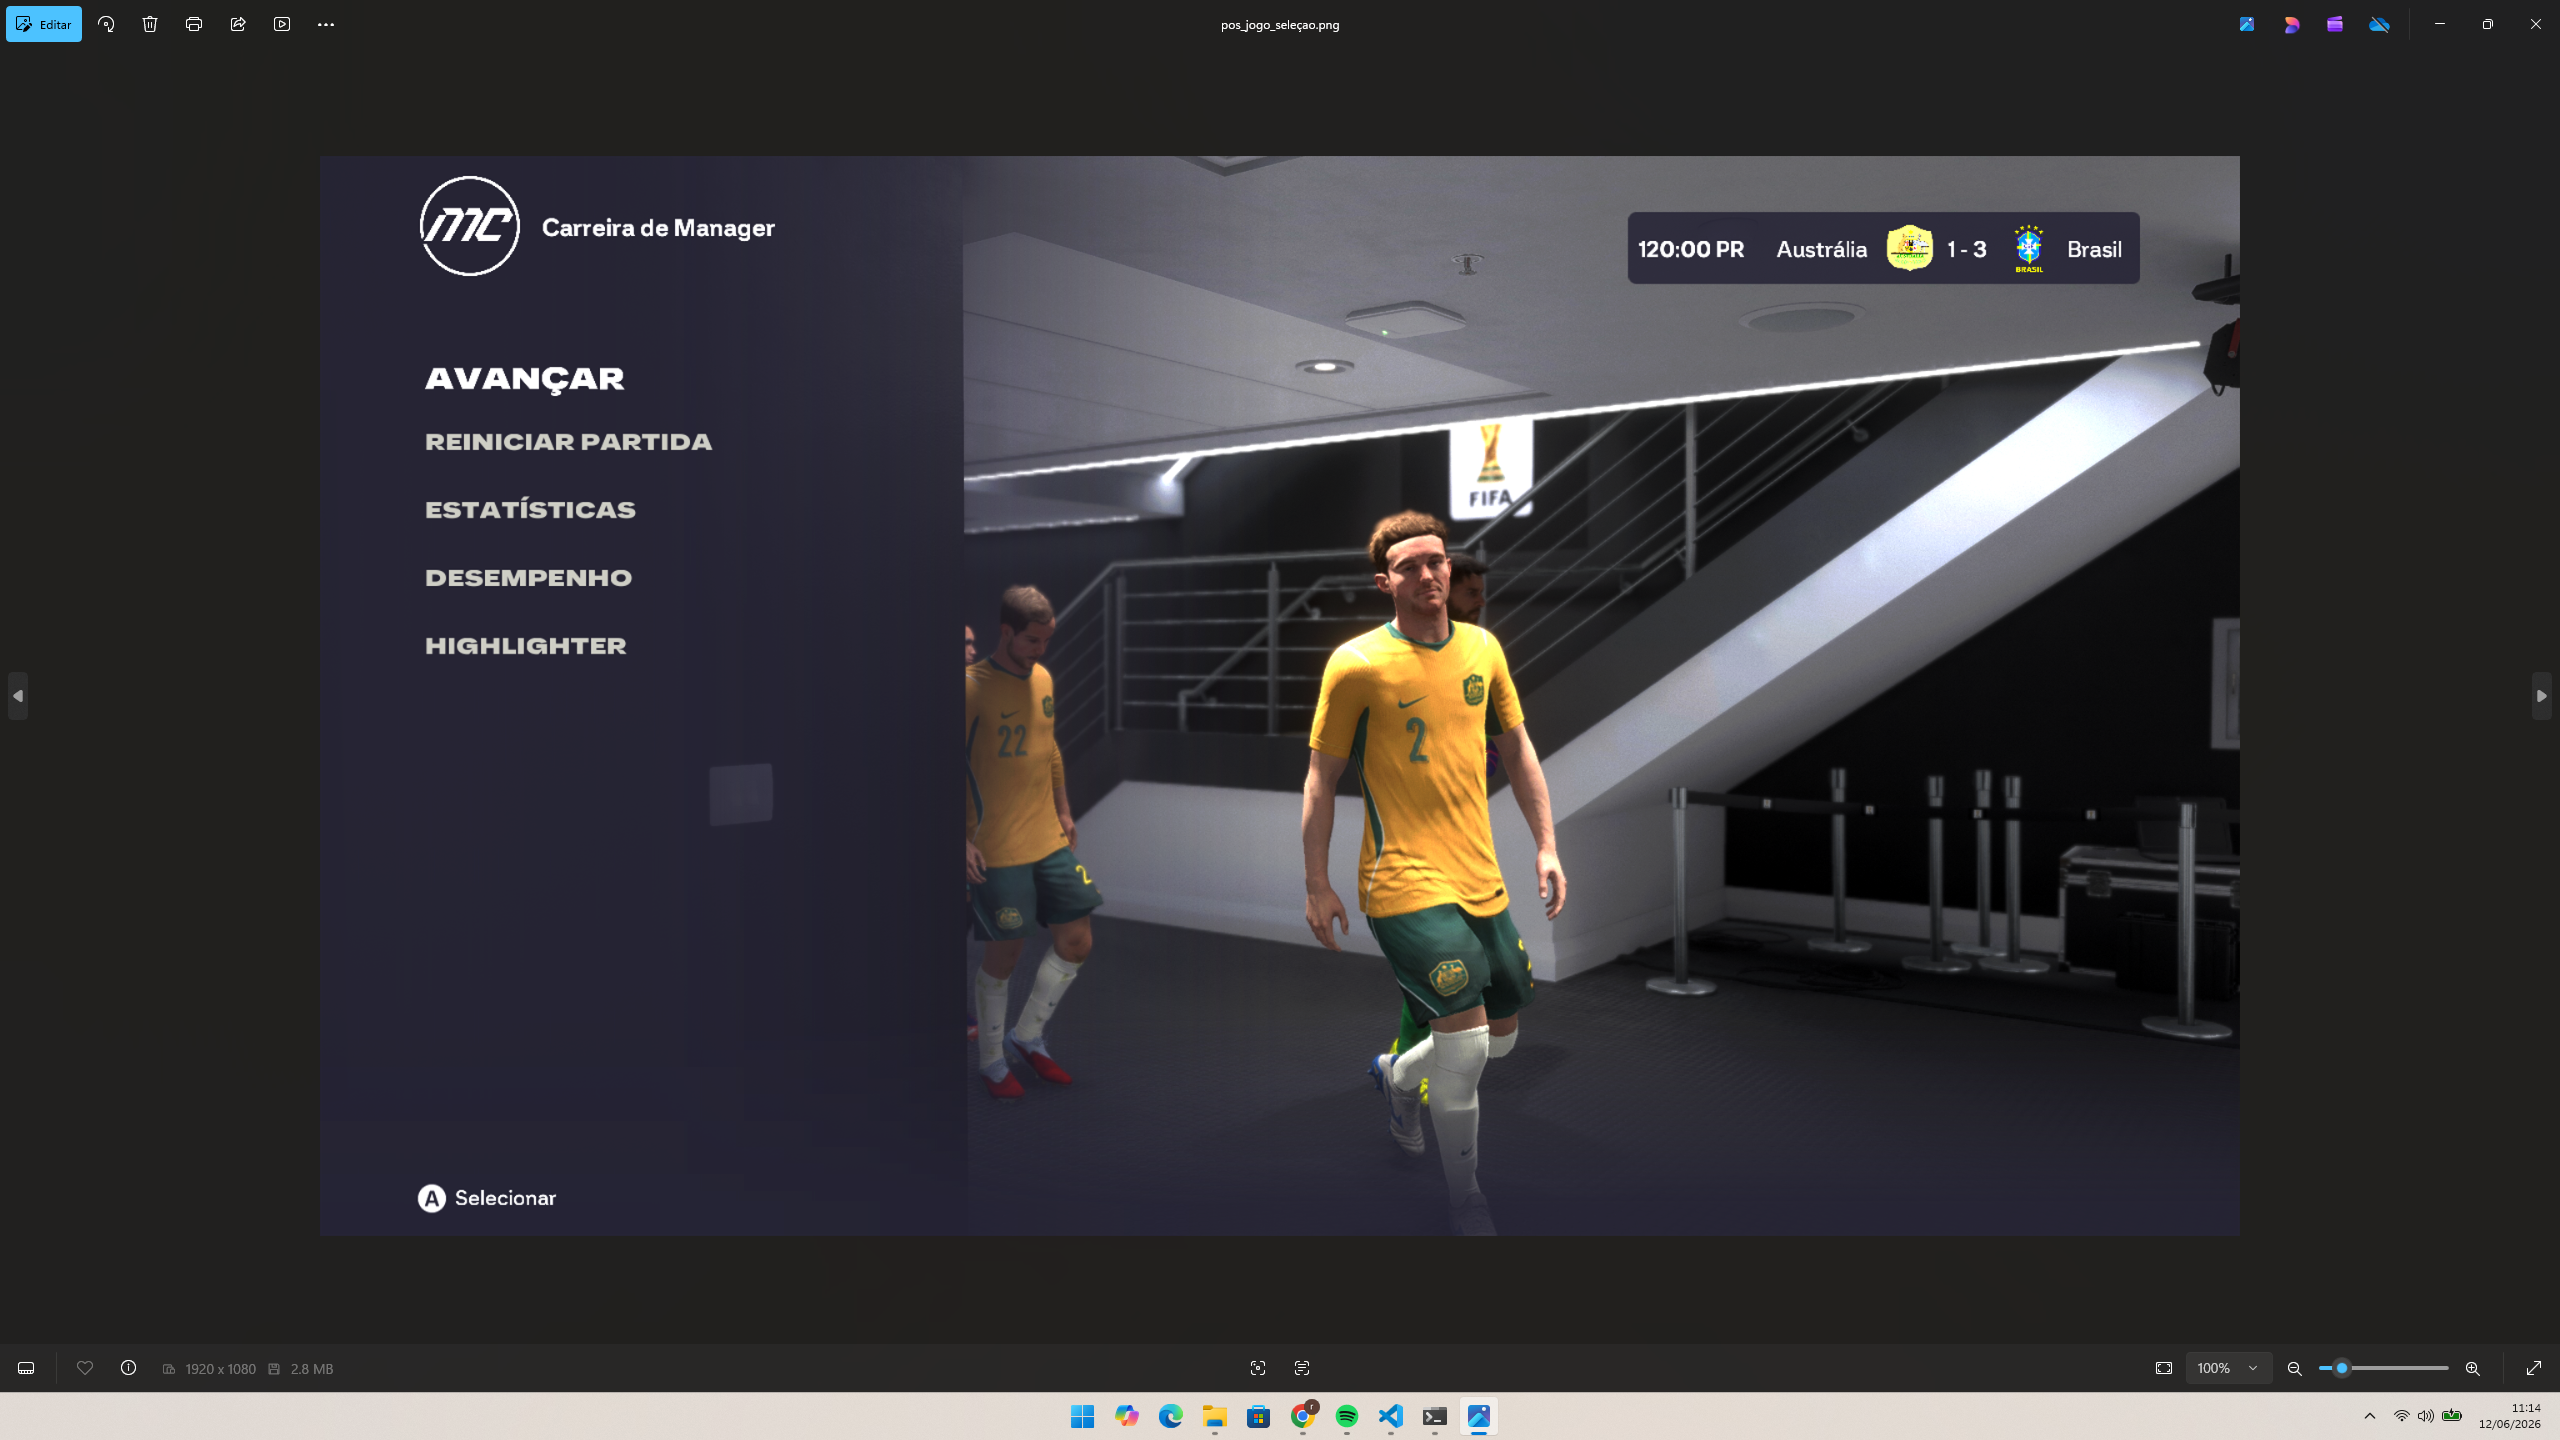
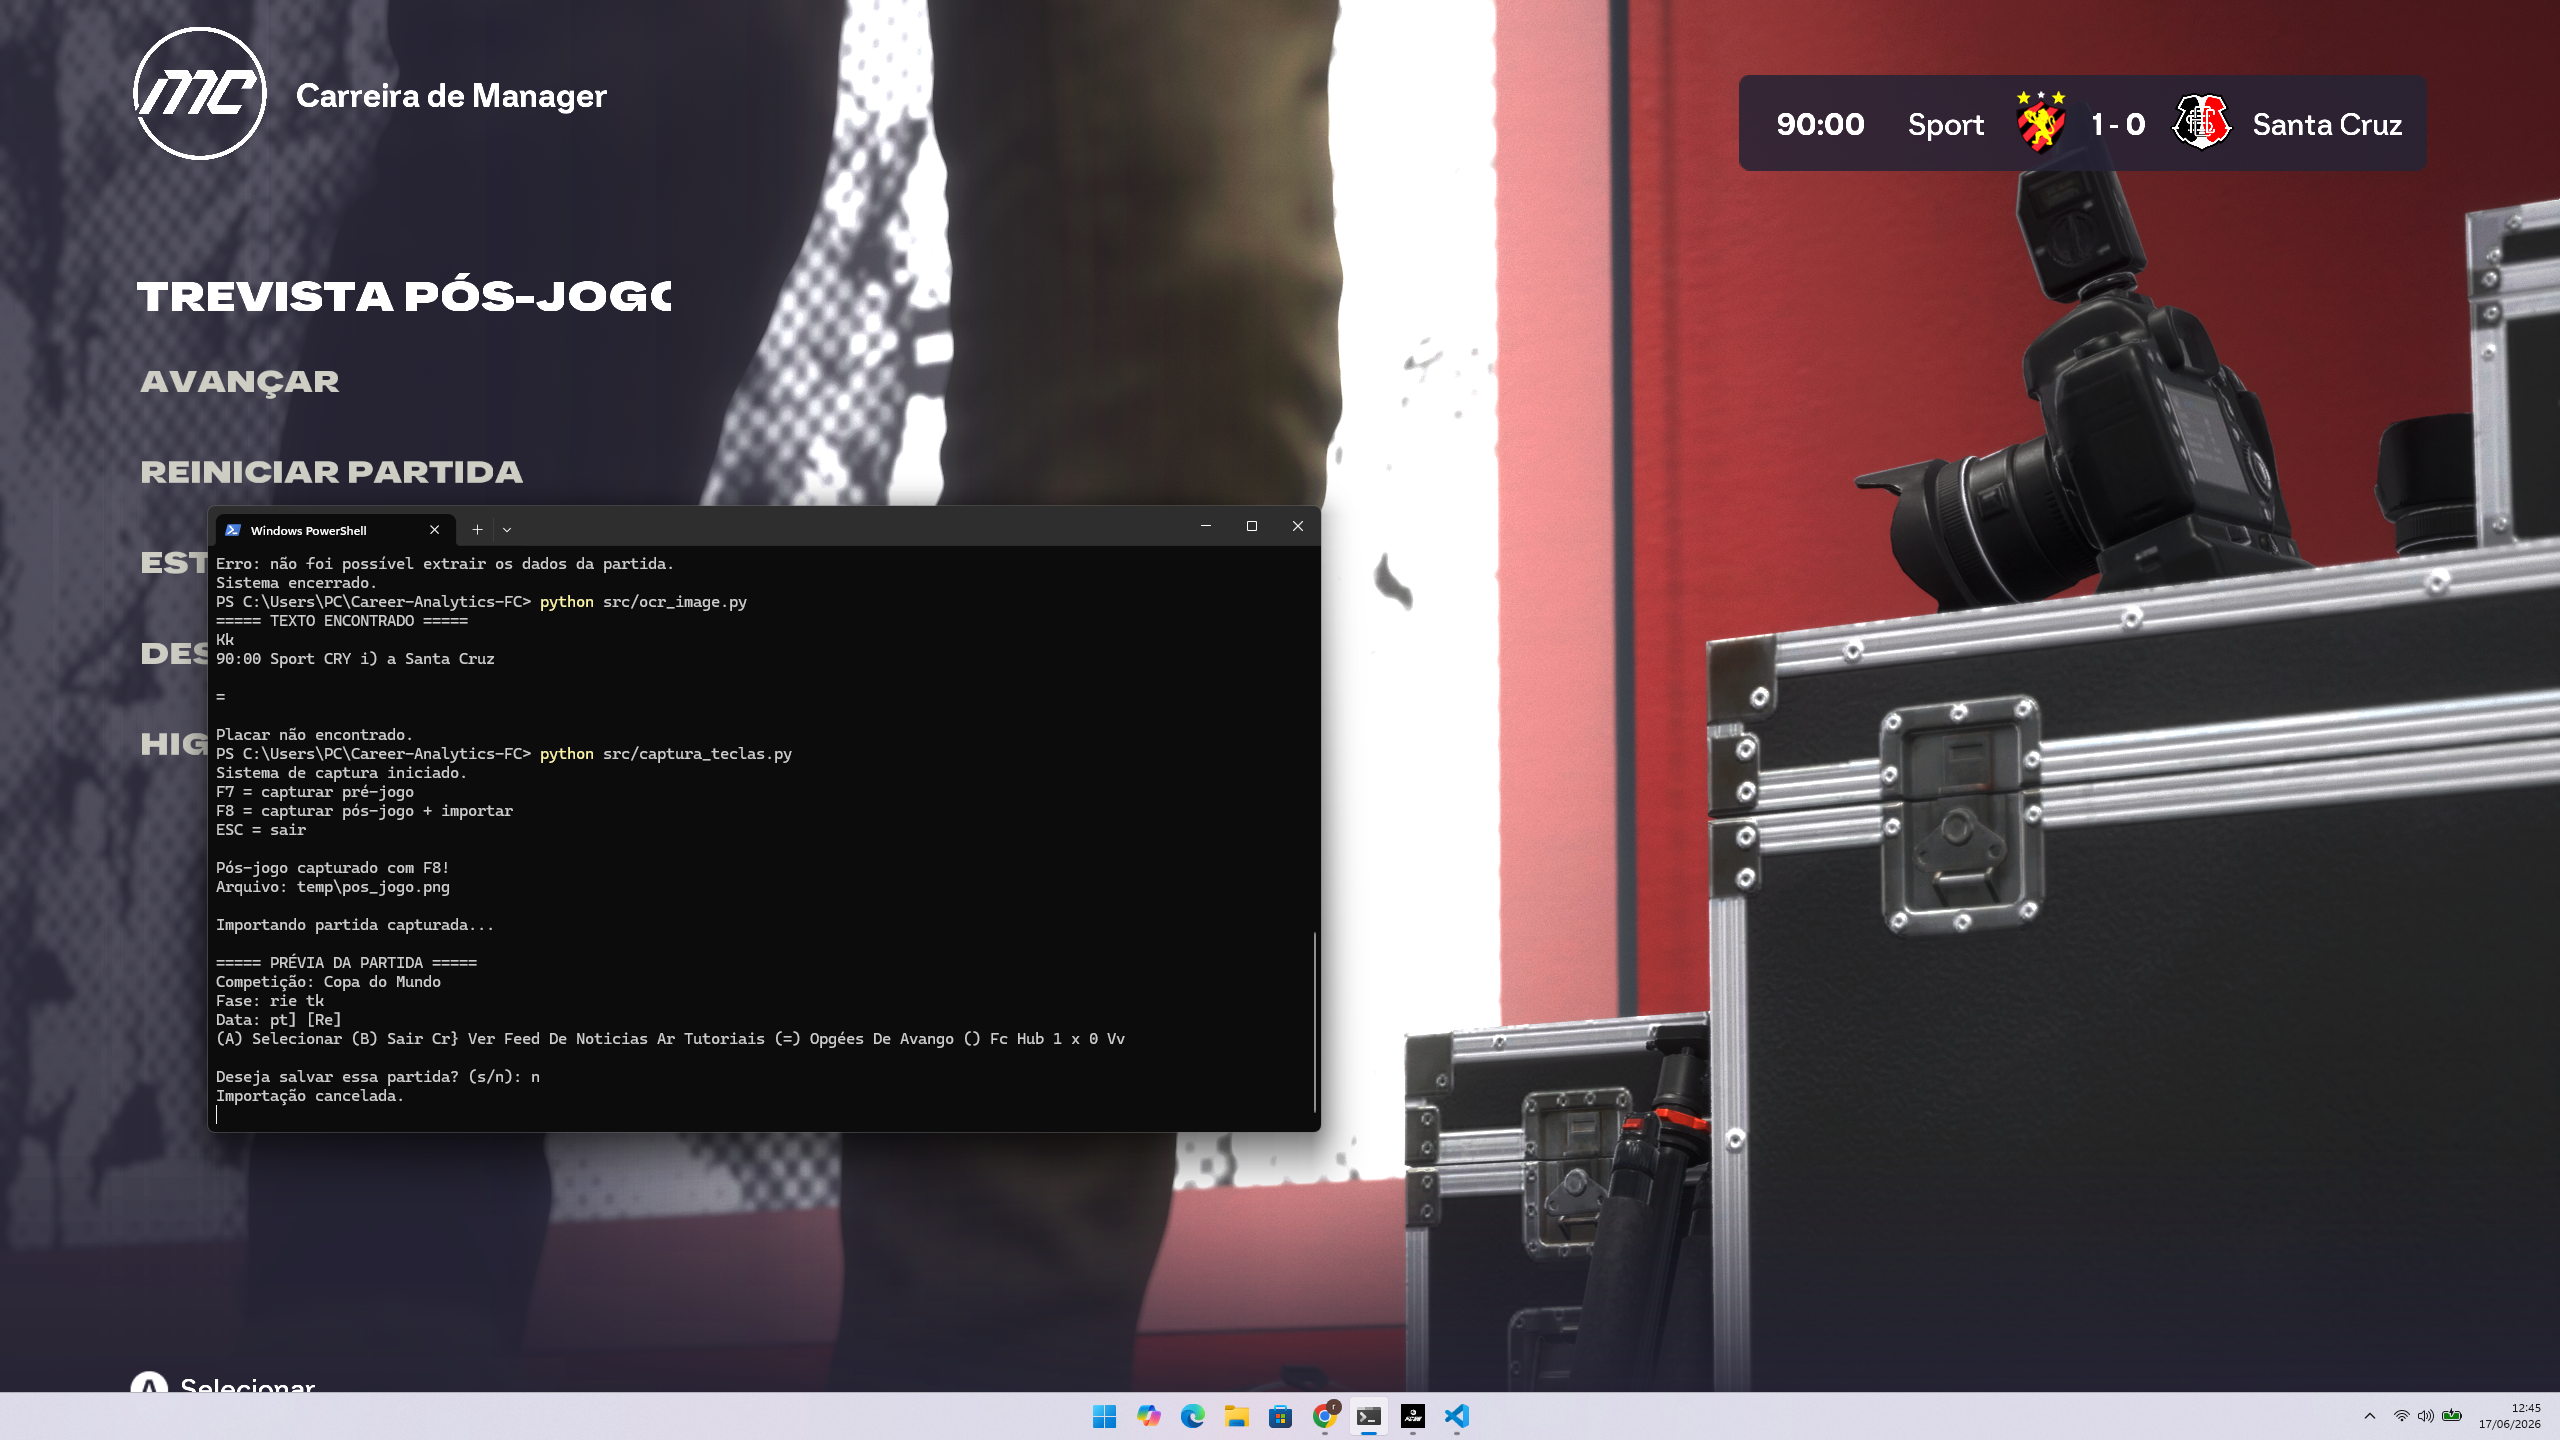
docs:atualiza readme com status atual do projeto

diff --git a/src/importar_partida.py b/src/importar_partida.py
@@ -7,53 +7,196 @@ from carreira_ativa import carregar_carreira_ativa
 
 DB_PATH = "data/career_tracker.db"
 
+DEBUG_OCR = False
+
 pytesseract.pytesseract.tesseract_cmd = (
     r"C:\Program Files\Tesseract-OCR\tesseract.exe"
 )
 
 
-def limpar_texto_time(texto):
-    texto = texto.replace("_", " ")
-    texto = texto.replace("|", " ")
-    texto = texto.replace("]", " ")
-    texto = texto.replace("[", " ")
-    texto = texto.replace("s ", " ")
+def normalizar_nome_time(nome):
+    nome = nome.replace("_", " ")
+    nome = nome.replace("|", " ")
+    nome = nome.replace("]", " ")
+    nome = nome.replace("[", " ")
+    nome = nome.replace("º", "")
+    nome = nome.replace("°", "")
+    nome = re.sub(r"\d+", "", nome)
+    nome = nome.strip()
 
-    partes = texto.strip().split()
-    partes_limpas = []
+    return " ".join(nome.split()).title()
 
-    for parte in partes:
-        if not any(char.isdigit() for char in parte):
-            partes_limpas.append(parte)
 
-    return " ".join(partes_limpas).strip().title()
+def identificar_competicao(linha):
+    linha_upper = linha.upper()
+
+    if "COPA DO NORDESTE" in linha_upper:
+        return "Copa do Nordeste"
+
+    if "COPA DO BRASIL" in linha_upper:
+        return "Copa do Brasil"
+
+    if "COPA DO MUNDO" in linha_upper:
+        return "Copa do Mundo"
+
+    if "PERNAMBUCANO" in linha_upper:
+        return "Pernambucano"
+
+    if "BRASILEIR" in linha_upper:
+        return "Brasileirão"
+
+    return ""
+
+
+def limpar_linha_ocr(linha):
+    linha = linha.replace("|", " ")
+    linha = linha.replace("=", " ")
+    linha = linha.replace("_", " ")
+    linha = linha.strip()
+
+    return " ".join(linha.split())
 
 
 def extrair_pre_jogo(caminho_imagem):
     imagem = Image.open(caminho_imagem)
-    texto = pytesseract.image_to_string(imagem)
+
+    largura, altura = imagem.size
+
+    recorte = imagem.crop((
+        int(largura * 0.00),
+        int(altura * 0.05),
+        int(largura * 0.60),
+        int(altura * 0.55)
+    ))
+
+    texto = pytesseract.image_to_string(recorte)
 
     linhas = []
 
     for linha in texto.splitlines():
-        linha = linha.strip()
+        linha = limpar_linha_ocr(linha)
 
         if linha:
             linhas.append(linha)
 
-    data = linhas[0]
-    fase = linhas[1]
-    time_casa = linhas[-2].title()
-    time_fora = linhas[-1].title()
+    if DEBUG_OCR:
+        print("\n===== OCR PRÉ-JOGO =====")
+        for linha in linhas:
+            print(linha)
 
-    competicao = "Copa do Mundo"
+    data = ""
+    fase = ""
+    competicao = ""
+
+    for linha in linhas:
+        linha_upper = linha.upper()
+
+        if "," in linha and (
+            "DE" in linha_upper
+            or "JAN" in linha_upper
+            or "FEV" in linha_upper
+            or "MAR" in linha_upper
+            or "ABR" in linha_upper
+            or "MAI" in linha_upper
+            or "JUN" in linha_upper
+            or "JUL" in linha_upper
+            or "AGO" in linha_upper
+            or "SET" in linha_upper
+            or "OUT" in linha_upper
+            or "NOV" in linha_upper
+            or "DEZ" in linha_upper
+        ):
+            data = linha
+
+        if (
+            "RODADA" in linha_upper
+            or "OITAVAS" in linha_upper
+            or "QUARTAS" in linha_upper
+            or "SEMI" in linha_upper
+            or "FINAL" in linha_upper
+        ):
+            fase = linha
+
+        competicao_identificada = identificar_competicao(linha)
+
+        if competicao_identificada:
+            competicao = competicao_identificada
+
+    linhas_times = []
+
+    palavras_ignoradas = [
+        "DIA",
+        "JOGO",
+        "HOJE",
+        "RODADA",
+        "COPA",
+        "BRASILEIR",
+        "PERNAMBUCANO",
+        "MUNDIAL",
+        "ANÁLISE",
+        "ANALISE",
+        "TREINAMENTO",
+        "COLETIVA",
+        "TAREFAS",
+        "SELECIONAR",
+        "SAIR",
+        "FEED",
+        "NOTÍCIAS",
+        "NOTICIAS",
+        "TUTORIAIS",
+        "OPÇÕES",
+        "OPCOES",
+        "AVANÇO",
+        "AVANCO",
+        "FC HUB",
+        "INICIO",
+        "INÍCIO",
+        "CENTRAL",
+        "NOTIFICACOES",
+        "NOTIFICAÇÕES",
+        "ELENCO",
+        "TRANSFERENCIAS",
+        "TRANSFERÊNCIAS",
+        "ACADEMIA",
+        "ESCRITORIO",
+        "ESCRITÓRIO",
+        "PERSONALIZAR",
+    ]
+
+    for linha in linhas:
+        linha_upper = linha.upper()
+
+        if any(palavra in linha_upper for palavra in palavras_ignoradas):
+            continue
+
+        if "," in linha:
+            continue
+
+        if len(linha.strip()) >= 3:
+            linhas_times.append(linha.strip())
+
+    time_casa = ""
+    time_fora = ""
+
+    if len(linhas_times) >= 2:
+        time_casa = normalizar_nome_time(linhas_times[-2])
+        time_fora = normalizar_nome_time(linhas_times[-1])
+
+    if not competicao:
+        competicao = "Competição não identificada"
+
+    if not fase:
+        fase = "Fase não identificada"
+
+    if not data:
+        data = "Data não identificada"
 
     return {
         "data": data,
         "fase": fase,
         "competicao": competicao,
         "time_casa": time_casa,
-        "time_fora": time_fora
+        "time_fora": time_fora,
     }
 
 
@@ -63,15 +206,19 @@ def extrair_pos_jogo(caminho_imagem):
     largura, altura = imagem.size
 
     recorte = imagem.crop((
-        int(largura * 0.62),
-        int(altura * 0.03),
-        int(largura * 0.97),
-        int(altura * 0.15)
+        int(largura * 0.45),
+        int(altura * 0.00),
+        int(largura * 1.00),
+        int(altura * 0.22)
     ))
 
     texto = pytesseract.image_to_string(recorte)
 
-    padrao_placar = r"(\d+)\s*-\s*(\d+)"
+    if DEBUG_OCR:
+        print("\n===== OCR PÓS-JOGO =====")
+        print(texto)
+
+    padrao_placar = r"(\d+)\s*[-xX]\s*(\d+)"
     resultado = re.search(padrao_placar, texto)
 
     if not resultado:
@@ -82,7 +229,7 @@ def extrair_pos_jogo(caminho_imagem):
 
     return {
         "gols_casa": gols_casa,
-        "gols_fora": gols_fora
+        "gols_fora": gols_fora,
     }
 
 
@@ -93,6 +240,9 @@ def extrair_partida(pre_jogo, pos_jogo):
     if dados_pos is None:
         return None
 
+    if not dados_pre["time_casa"] or not dados_pre["time_fora"]:
+        return None
+
     return {
         "competicao": dados_pre["competicao"],
         "fase": dados_pre["fase"],
@@ -100,8 +250,51 @@ def extrair_partida(pre_jogo, pos_jogo):
         "time_casa": dados_pre["time_casa"],
         "gols_casa": dados_pos["gols_casa"],
         "gols_fora": dados_pos["gols_fora"],
-        "time_fora": dados_pre["time_fora"]
+        "time_fora": dados_pre["time_fora"],
     }
+
+
+def obter_carreira(carreira_id):
+    conexao = sqlite3.connect(DB_PATH)
+    cursor = conexao.cursor()
+
+    cursor.execute("""
+    SELECT time_atual, selecao_atual
+    FROM carreiras
+    WHERE id = ?
+    """, (carreira_id,))
+
+    carreira = cursor.fetchone()
+    conexao.close()
+
+    if not carreira:
+        return None
+
+    return {
+        "time_atual": carreira[0],
+        "selecao_atual": carreira[1],
+    }
+
+
+def definir_meu_time_e_tipo(partida, carreira_id):
+    carreira = obter_carreira(carreira_id)
+
+    if carreira is None:
+        return partida["time_fora"].lower(), "clube"
+
+    time_atual = carreira["time_atual"].lower() if carreira["time_atual"] else ""
+    selecao_atual = carreira["selecao_atual"].lower() if carreira["selecao_atual"] else ""
+
+    time_casa = partida["time_casa"].lower()
+    time_fora = partida["time_fora"].lower()
+
+    if time_casa == time_atual or time_fora == time_atual:
+        return time_atual, "clube"
+
+    if selecao_atual and (time_casa == selecao_atual or time_fora == selecao_atual):
+        return selecao_atual, "selecao"
+
+    return partida["time_fora"].lower(), "clube"
 
 
 def salvar_partida(partida):
@@ -110,11 +303,11 @@ def salvar_partida(partida):
     if carreira_id is None:
         return False, "Nenhuma carreira ativa selecionada."
 
-    meu_time_na_partida = partida["time_fora"].lower()
-    tipo_time = "selecao"
+    meu_time_na_partida, tipo_time = definir_meu_time_e_tipo(partida, carreira_id)
 
     conexao = sqlite3.connect(DB_PATH)
     cursor = conexao.cursor()
+
     cursor.execute("""
     SELECT id
     FROM partidas
@@ -124,12 +317,12 @@ def salvar_partida(partida):
     AND time_casa = ?
     AND time_fora = ?
     """, (
-    carreira_id,
-    partida["competicao"],
-    partida["data"],
-    partida["time_casa"].lower(),
-    partida["time_fora"].lower()
-        ))
+        carreira_id,
+        partida["competicao"],
+        partida["data"],
+        partida["time_casa"].lower(),
+        partida["time_fora"].lower(),
+    ))
 
     partida_existente = cursor.fetchone()
 
@@ -159,7 +352,7 @@ def salvar_partida(partida):
         partida["time_fora"].lower(),
         partida["gols_casa"],
         partida["gols_fora"],
-        partida["data"]
+        partida["data"],
     ))
 
     conexao.commit()
@@ -185,7 +378,10 @@ if __name__ == "__main__":
         print(f"Competição: {partida['competicao']}")
         print(f"Fase: {partida['fase']}")
         print(f"Data: {partida['data']}")
-        print(f"{partida['time_casa']} {partida['gols_casa']} x {partida['gols_fora']} {partida['time_fora']}")
+        print(
+            f"{partida['time_casa']} {partida['gols_casa']} x "
+            f"{partida['gols_fora']} {partida['time_fora']}"
+        )
 
         sucesso, mensagem = salvar_partida(partida)
         print(mensagem)

diff --git a/src/ocr_image.py b/src/ocr_image.py
@@ -6,7 +6,7 @@ pytesseract.pytesseract.tesseract_cmd = (
     r"C:\Program Files\Tesseract-OCR\tesseract.exe"
 )
 
-CAMINHO_IMAGEM = "screenshots/pos_jogo.png"
+CAMINHO_IMAGEM = "temp/pos_jogo.png"
 
 
 def limpar_texto_time(texto):

diff --git a/src/ocr_pre_jogo.py b/src/ocr_pre_jogo.py
@@ -5,7 +5,7 @@ pytesseract.pytesseract.tesseract_cmd = (
     r"C:\Program Files\Tesseract-OCR\tesseract.exe"
 )
 
-CAMINHO_IMAGEM = "screenshots/pre_jogo.png"
+CAMINHO_IMAGEM = "temp/pre_jogo.png"
 
 imagem = Image.open(CAMINHO_IMAGEM)
 